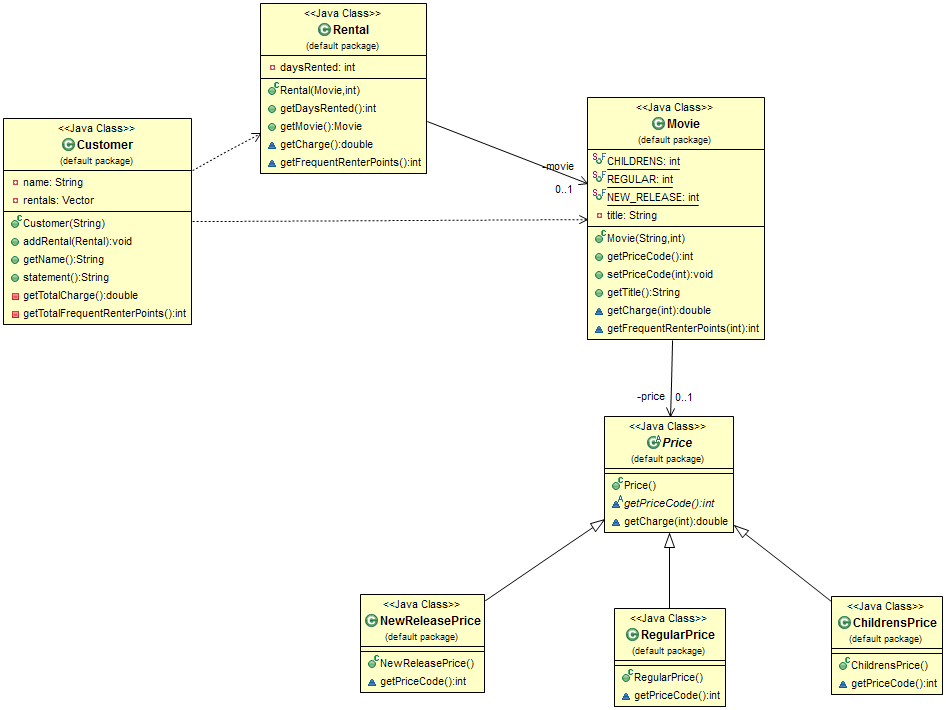
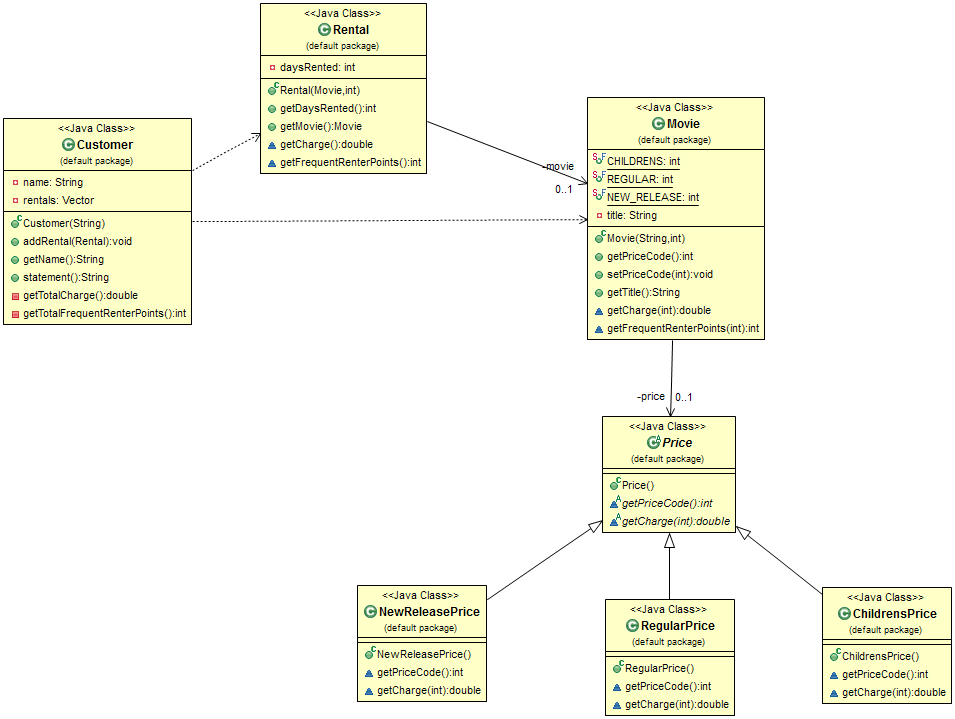
Change: Used "Replace Conditional with Polymorphism" Refactoring on getCharge to remove switch Statement; Updated Metrics and Class Diagram Bad Smell: This and the last commit are the last two steps in removing the Case Statement from getCharge

diff --git a/src/Price.java b/src/Price.java
@@ -1,25 +1,5 @@
 
 public abstract class Price {
 	abstract int getPriceCode();
-
-	double getCharge(int daysRented) {
-		double result = 0;
-		//determine amounts for each line
-	    switch (getPriceCode()) {
-	        case Movie.REGULAR:
-	        	result += 2;
-	        	if (daysRented > 2)
-	            	result += (daysRented - 2) * 1.5;
-	        	break;
-	        case Movie.NEW_RELEASE:
-	        	result += daysRented * 3;
-	        	break;
-	        case Movie.CHILDRENS:
-	        	result += 1.5;
-	        	if (daysRented > 3)
-	            	result += (daysRented - 3) * 1.5;
-	        	break;
-	    }
-	    return result;
-	}
+	abstract double getCharge(int daysRented);
 }

diff --git a/src/ChildrensPrice.java b/src/ChildrensPrice.java
@@ -5,5 +5,13 @@ public class ChildrensPrice extends Price {
 	int getPriceCode() {
 		return Movie.CHILDRENS;
 	}
+	@Override
+	double getCharge(int daysRented) {
+		double result = 1.5;
+	    if (daysRented > 3) {
+	    	result += (daysRented - 3) * 1.5;
+	    }
+	    return result;
+	}
 
 }

diff --git a/src/RegularPrice.java b/src/RegularPrice.java
@@ -6,4 +6,12 @@ public class RegularPrice extends Price {
 		return Movie.REGULAR;
 	}
 
+	double getCharge(int daysRented) {
+		double result = 2;
+	    if (daysRented > 2) {
+	    	result += (daysRented - 2) * 1.5;
+	    }
+	    return result;
+	}
+
 }

diff --git a/src/NewReleasePrice.java b/src/NewReleasePrice.java
@@ -5,5 +5,10 @@ public class NewReleasePrice extends Price {
 	int getPriceCode() {	
 		return Movie.NEW_RELEASE;
 	}
+	
+	@Override
+	double getCharge(int daysRented) {
+	    return daysRented * 3;
+	}
 
 }
